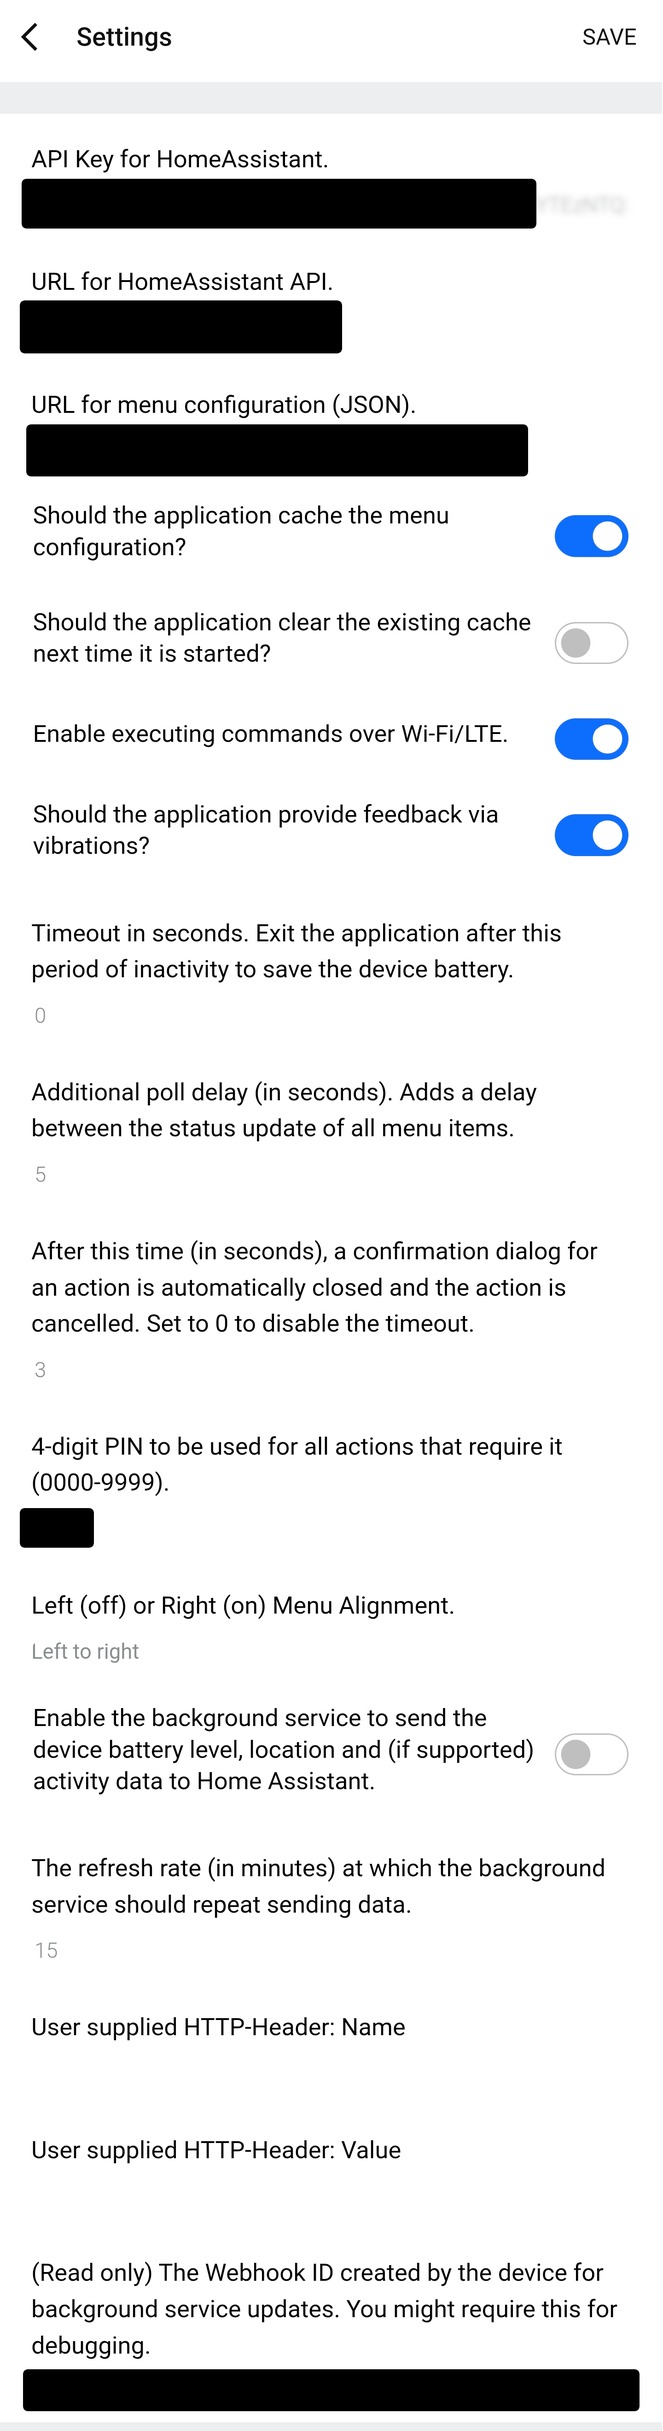
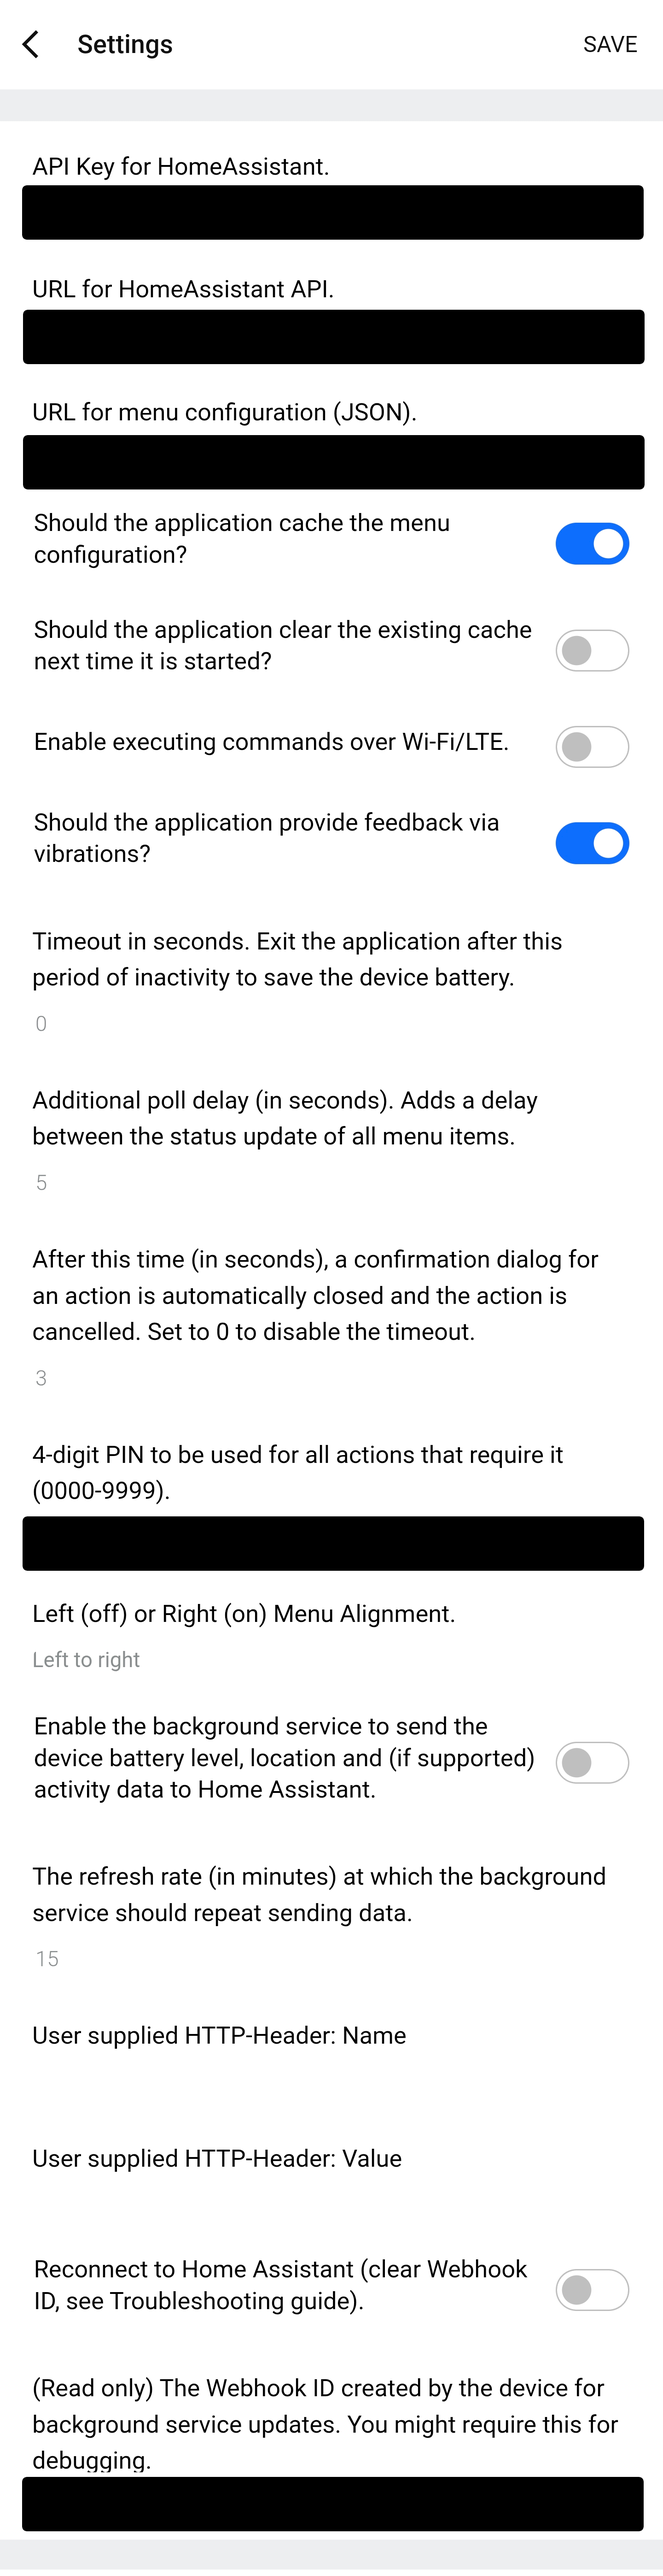
Documentation update for v3.2

diff --git a/TroubleShooting.md b/TroubleShooting.md
@@ -315,7 +315,11 @@ JSON for copy & paste:
 
 ![No JSON](images/NoJson.png)
 
-When the application persists in reporting "No JSON returned from HTTP request." this might be due to a mismatch between the Webhook ID and the device settings on the Home Assistant server. The application options include the ability to clear the Webhook ID in the application forcing a new one to be set up.
+When the application persists in reporting "No JSON returned from HTTP request." this might be due to a mismatch between the Webhook ID and the device settings on the Home Assistant server. We have discovered that the Webhook ID is required for Home Assistant API calls with templates in order to work in a non-privileged account. The application options include the ability to clear the Webhook ID in the application forcing a new one to be set up. This should prevent the above error being shown on startup.
+
+Look for this option in the application settings:
+
+![Nabu Casa Setup](images/delete_webhook_id.png)
 
 # Debug Logs
 
